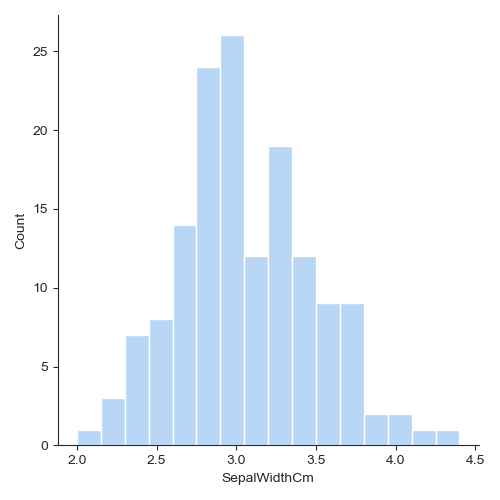
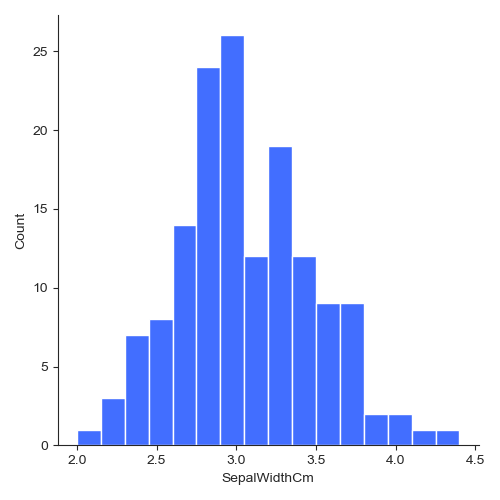
graphs

Changed region(s): [[0.15, 0.06, 0.93, 0.9]]

diff --git a/Analysis.py b/Analysis.py
@@ -34,31 +34,39 @@ with open("analysisOutout.txt", "wt") as f:                                     
     print("\nThe Data grouped by Species is: \n \n",df.groupby("Species").size(), file=f)    # Outputs the data grouped by Species
 
 
-# 
+
+
+
+#sns.set_style('whitegrid')                                      # set seaborn background
+sns.set_palette("bright")                                   # set seaborn color palette
+sns.set_style("ticks", {"xtick.major.size": 8, "ytick.major.size": 8})
+
+
+# Histogram of Variable
+
+
+
+
+     
 
 
 
 
 
-
-
-
-
-
-# Scatterplots
-plt.figure(figsize=(10,10))
-plt.subplot(2,2,1)
-scatterplot = sns.scatterplot(x = "SepalLengthCm", y = "SepalWidthCm", data = df, hue="Species", legend=True, palette=("husl")) 
-plt.subplot(2,2,2)
-scatterplot = sns.scatterplot(x = "PetalLengthCm", y = "PetalWidthCm", data = df, hue="Species", legend=True, palette=("husl")) 
-plt.subplot(2,2,3)
-scatterplot = sns.scatterplot(x = "SepalLengthCm", y = "PetalLengthCm", data = df, hue="Species", legend=True, palette=("husl")) 
-plt.subplot(2,2,4)
-scatterplot = sns.scatterplot(x = "SepalWidthCm", y = "PetalWidthCm", data = df, hue="Species", legend=True, palette=("husl"))
-plt.suptitle("Fisher's Iris Dataset", size=20)
-plt.tight_layout()
-#plt.show()
-plt.savefig("Scatterplots.png") 
+# Scatterplots of Variables
+plt.figure(figsize=(10,10))                                                                                              # plot figure size
+plt.subplot(2,2,1)                                                                                                       # subplot - 2 * 2 - plot 1
+sns.scatterplot(x = "SepalLengthCm", y = "SepalWidthCm", data = df, hue="Species", legend=True, palette=("husl"))        # Seaborn Scatterplot - ( set X axis / set Y axis ), Data from Iris File, Hue - Species, include a legend, Palette - set color
+plt.subplot(2,2,2)                                                                                                       # subplot - 2 * 2 - plot 2
+sns.scatterplot(x = "PetalLengthCm", y = "PetalWidthCm", data = df, hue="Species", legend=True, palette=("husl"))        # Seaborn Scatterplot - ( set X axis / set Y axis ), Data from Iris File, Hue - Species, include a legend, Palette - set colo
+plt.subplot(2,2,3)                                                                                                       # subplot - 2 * 2 - plot 3
+sns.scatterplot(x = "SepalLengthCm", y = "PetalLengthCm", data = df, hue="Species", legend=True, palette=("husl"))       # Seaborn Scatterplot - ( set X axis / set Y axis ), Data from Iris File, Hue - Species, include a legend, Palette - set colo
+plt.subplot(2,2,4)                                                                                                       # subplot - 2 * 2 - plot 4
+sns.scatterplot(x = "SepalWidthCm", y = "PetalWidthCm", data = df, hue="Species", legend=True, palette=("husl"))         # Seaborn Scatterplot - ( set X axis / set Y axis ), Data from Iris File, Hue - Species, include a legend, Palette - set colo
+plt.suptitle("Fisher's Iris Dataset", size=20)                                                                           # Set over all plot title - Size 20
+plt.tight_layout()                                                                                                       # Crop output
+#plt.show()                                                                                                              # Show plot 
+plt.savefig("Scatterplots.png")                                                                                          # Create file and save to file "Voilinplot"
 
 
 

diff --git a/review.py b/review.py
@@ -1,0 +1,24 @@
+# Author Veronica Curry
+# Student ID: G00074924
+# Completed: April 2021
+
+# This file provides a summary of the information in other files. This is not an exhaustive list, please note the additional files.
+
+# Provide a summary of each variable in a single txt file
+# Save a historgram of each variable in a PNG file
+# Sets outputs of a scatterplot of each pair of variables
+
+
+import numpy as np                               # Import Modules  - NumPy
+import pandas as pd                              # Import Modules  - Pandas
+import matplotlib.pyplot as plt                  # Import Modules  - Matplotlib
+import seaborn as sns                            # Import Modules  - Seaborn
+
+
+filename = 'kaggleIrisSet.csv'                      # Import File
+df = pd.read_csv(filename)                          # Set variable for file - Pandas - read the CSV file
+
+
+setosa = df.loc[df["Species"] =="Iris-setosa"]              # Set variable for specific Iris - Setosa
+versicolor = df.loc[df["Species"] =="Iris-versicolor"]      # Set variable for specific Iris - Versicolor
+virginica = df.loc[df["Species"] =="Iris-virginica"]        # Set variable for specific Iris - Virginica

diff --git a/exampleGraphs.py b/exampleGraphs.py
@@ -42,11 +42,17 @@ plt.tight_layout()                                                              
 plt.savefig("Voilinplots.png")                                                       # Create file and save to file "Voilinplot"
 
 
-# Joint Plot
-jointplot = sns.jointplot(x='SepalWidthCm', y='SepalLengthCm', data=df, height=6, palette=("husl"), kind="reg")
+
+
+# Joint Plots
+jointplot = sns.jointplot(x='PetalWidthCm', y='SepalWidthCm', data=df, height=6, palette=("husl"), kind="reg")
 #plt.show()
 plt.savefig("Jointplot.png")  
 
+
+jointplot = sns.jointplot(x='PetalLengthCm', y='SepalLengthCm', data=df, height=6, palette=("husl"), kind="reg")
+#plt.show()
+plt.savefig("Jointplot2.png")
 
 
 
